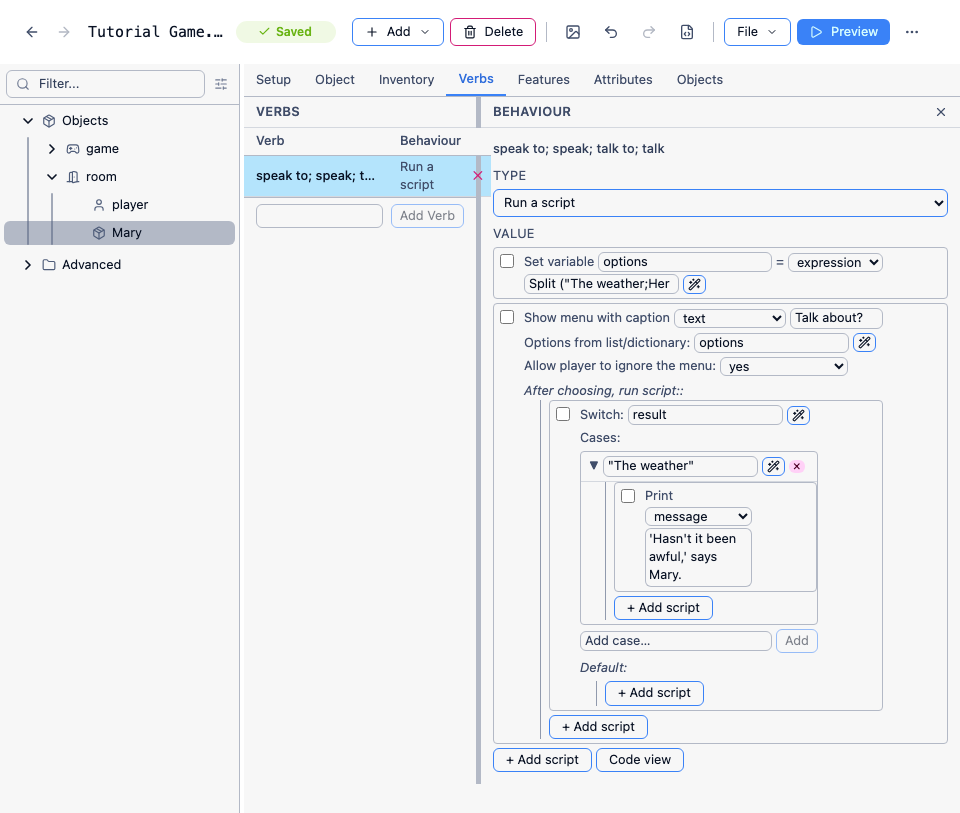
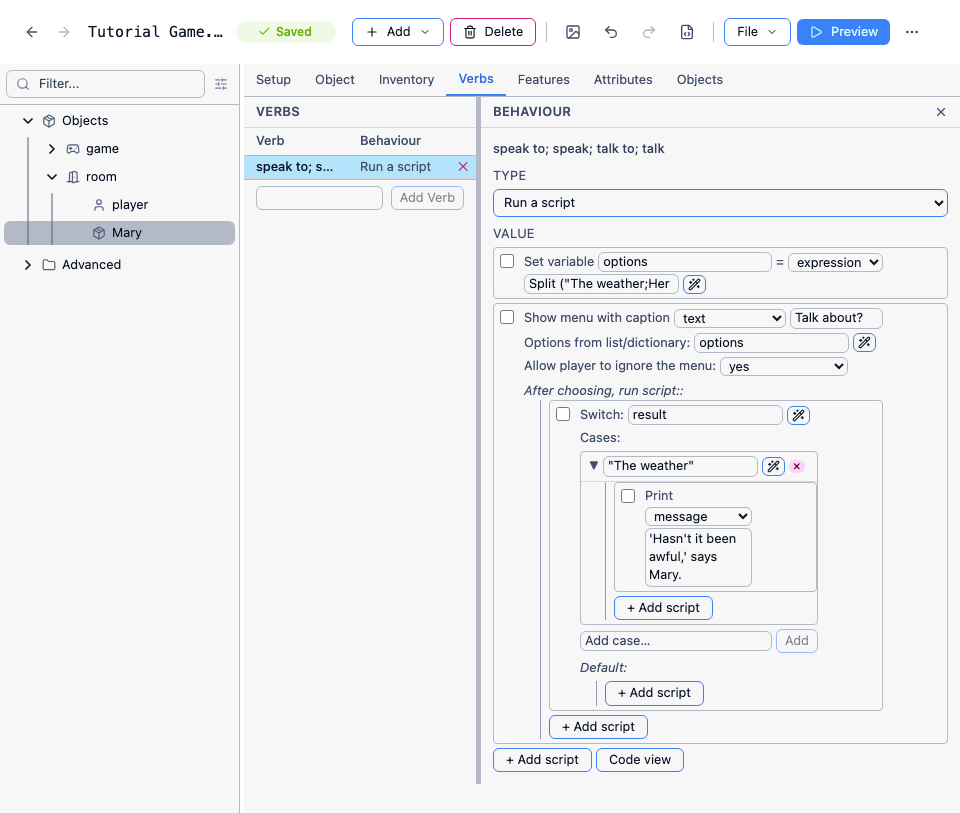
fix(AppShell): stop the verbs list overflowing across the splitter
The Verbs tab's list column was missing the `overflow-hidden` its sibling
AttributesEditor already has, and its table used auto layout — so the table
grew to its own min-content width rather than the column's. A wide row (a
multi-pattern verb like "speak to; speak; talk to; talk") pushed the selected
row's highlight and its delete button out across the drag splitter and under
the Behaviour panel. `table-fixed` allocates the columns out of the container
width instead, letting the verb cell's existing `truncate` absorb the excess.

Adds a regression check to verify-appshell-verbs-editor.mjs, measuring the row
and delete button against the splitter's left edge at the width the docs
screenshot harness captures at. It has to add a realistically wide verb first:
the short patterns the script already used never overflowed, and measuring
against the table can't detect this at all, since the table is the element that
was overflowing.

Regenerates the docs screenshots that showed the overlap, and fixes two
unrelated problems in the Overview page's own captures:

- The Picture frame screenshots uploaded a flat beige rectangle from a
  hand-rolled PNG encoder, which reads as a broken image rather than a photo.
  Replaced with a small flat-vector lounge scene, kept as SVG source in the
  capture script and rasterised through the browser the harness already drives.

- The "Customising the interface" demo hid `.ui-icon` to remove the accordion's
[…]

Changed region(s): [[0.25, 0.1538, 0.5312, 0.2768]]

diff --git a/src/AppShell/src/components/VerbsEditor.svelte b/src/AppShell/src/components/VerbsEditor.svelte
@@ -166,12 +166,18 @@
          verbs lists are usually short or empty, and forcing this column to fill all available
          height pinned "Add Verb" far below the list under a wall of blank space. This sizes to
          content instead, scrolling with the rest of the tab if the list ever gets long. -->
-    <div class="flex flex-col flex-1 min-w-0">
+    <div class="flex flex-col flex-1 min-w-0 overflow-hidden">
         <div class="px-3 py-1.5 border-b border-surface-100-900">
             <span class="font-semibold text-surface-600-400 uppercase tracking-wide">{t("verbsEditor.header")}</span>
         </div>
         <div>
-            <table class="w-full">
+            <!-- table-fixed (with overflow-hidden on the column above) so the columns are
+                 allocated out of the container's width and the verb cell's truncate absorbs
+                 the excess. Under auto layout the table grew to its own min-content width
+                 instead, and a wide row - a multi-pattern verb like "speak to; speak; talk
+                 to; talk" - pushed the row highlight and its delete button out across the
+                 splitter and under the Behaviour panel. -->
+            <table class="w-full table-fixed">
                 <thead class="sticky top-0 bg-surface-50-950 z-10">
                     <tr class="text-surface-600-400 border-b border-surface-200-800">
                         <th class="text-left py-1 px-3 font-medium">{t("verbsEditor.verbColumn")}</th>
